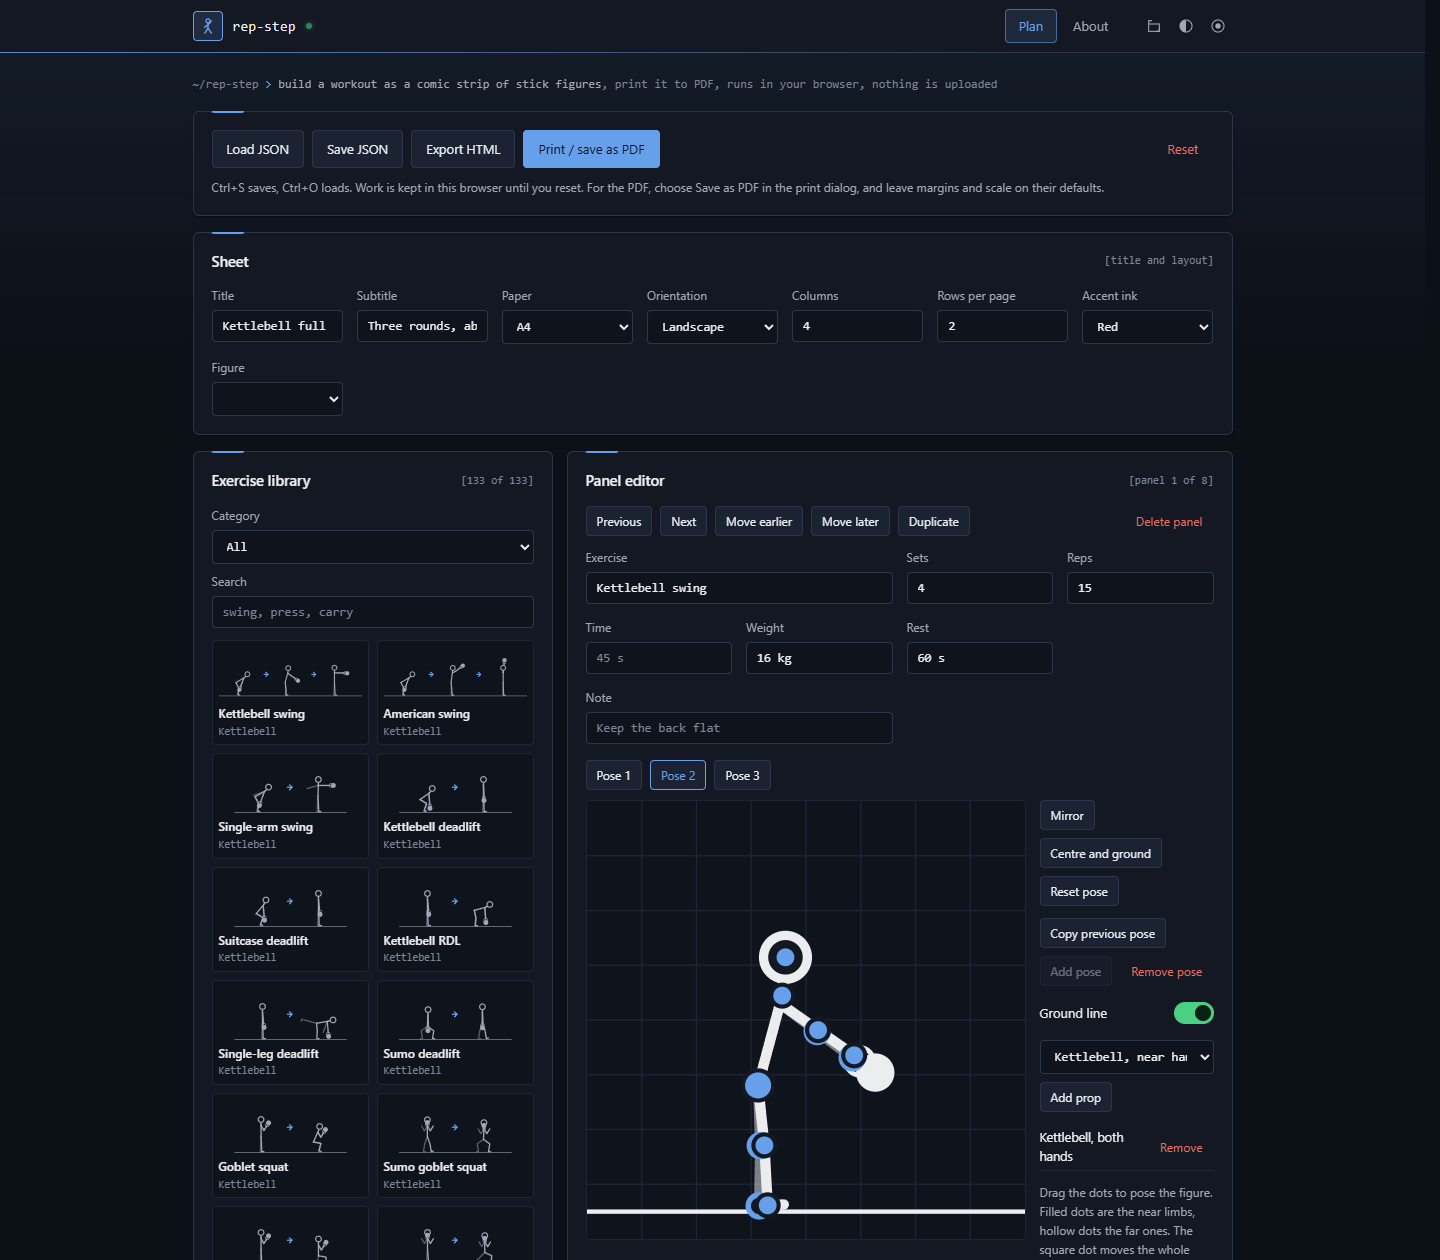
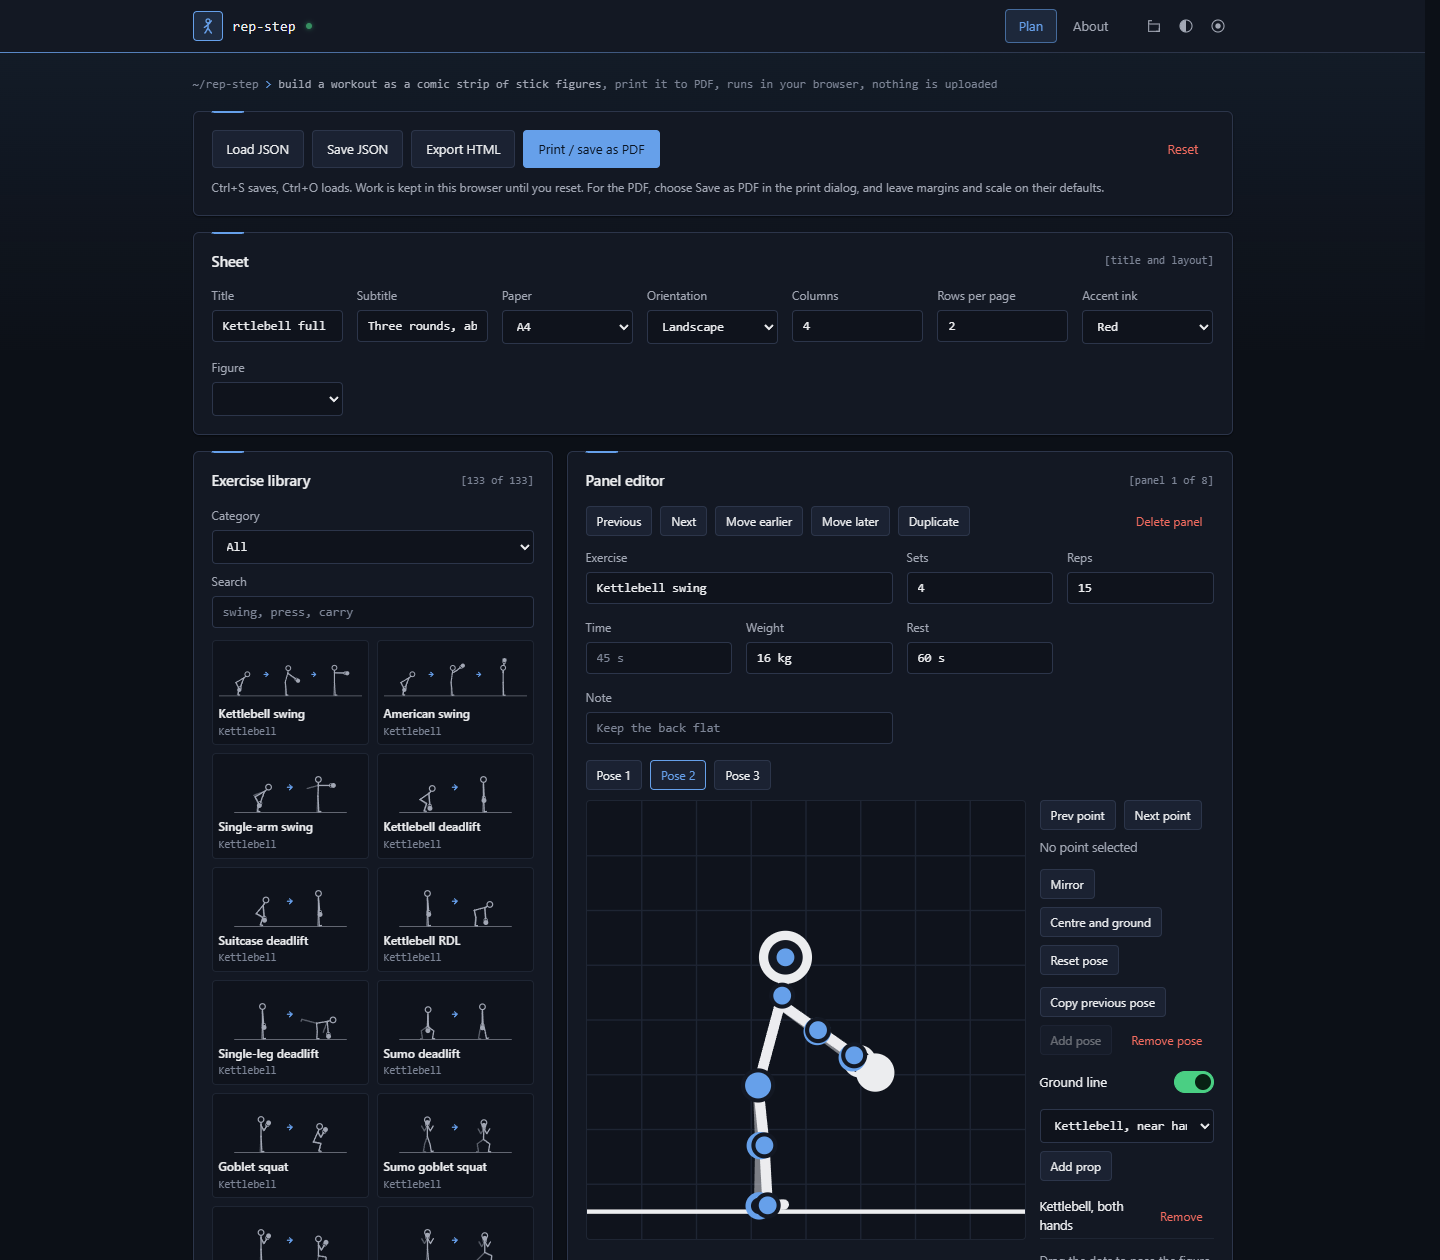
Pose editor: cycle through points and move them with the keyboard
Next point and Prev point (or ] and [) step through the editor dots one at a
time, which gets round overlapping dots. The picked dot turns red with a ring
and is named beside the buttons; grabbing a dot with the pointer picks it too.
The arrow keys move the picked dot (Shift for 4 units, Alt for a quarter) and
Escape lets go. The keys are ignored while typing in a field.

Changed region(s): [[0.7188, 0.619, 0.8438, 1.0]]

diff --git a/index.html b/index.html
@@ -1113,6 +1113,9 @@ label.f.grow { flex: 1 1 200px; }
     -webkit-user-select: none;
 }
 .edtools { display: flex; flex-direction: column; gap: 12px; }
+.ptbar { display: flex; align-items: center; flex-wrap: wrap; gap: 8px; }
+.ptname { flex: 1 1 100%; font-size: 12.5px; color: var(--fg-dim); }
+.ptname.on { color: var(--bad); font-weight: 700; }
 .proprow {
     display: flex;
     align-items: center;
@@ -1148,6 +1151,8 @@ svg .arr { fill: none; stroke: var(--spot); stroke-width: 3.6; stroke-linecap: r
 .edsvg .h-vis.far { fill: var(--card); stroke: var(--accent); stroke-width: 2; }
 .edsvg .h-vis.root { fill: var(--accent); stroke: var(--card); }
 .edsvg .h-vis.prop { fill: var(--warn); stroke: var(--card); }
+.edsvg .h-vis.sel { fill: var(--bad); stroke: var(--card); stroke-width: 2; }
+.edsvg .h-ring { fill: none; stroke: var(--bad); stroke-width: 1.4; pointer-events: none; }
 
 /* The sheet is paper. It is the product, so it keeps one fixed ink-on-white
    palette in every design and mode, and the same in print. */
@@ -1427,6 +1432,11 @@ svg .arr { fill: none; stroke: var(--spot); stroke-width: 3.6; stroke-linecap: r
                     <div class="edwrap">
                         <svg id="edSvg" class="edsvg" viewBox="0 0 160 160" role="img" aria-label="Pose editor. Drag the dots to pose the figure."><g id="edG"></g></svg>
                         <div class="edtools">
+                            <div class="ptbar">
+                                <button class="btn btn-sm" id="ptPrev" type="button" title="Previous point ( [ )">Prev point</button>
+                                <button class="btn btn-sm" id="ptNext" type="button" title="Next point ( ] )">Next point</button>
+                                <span class="ptname" id="ptName" aria-live="polite">No point selected</span>
+                            </div>
                             <div class="row">
                                 <button class="btn btn-sm" id="poseMirror">Mirror</button>
                                 <button class="btn btn-sm" id="poseGround">Centre and ground</button>
@@ -1446,7 +1456,7 @@ svg .arr { fill: none; stroke: var(--spot); stroke-width: 3.6; stroke-linecap: r
                                 <button class="btn btn-sm" id="propAdd">Add prop</button>
                             </div>
                             <div id="propList"></div>
-                            <div class="note">Drag the dots to pose the figure. Filled dots are the near limbs, hollow dots the far ones. The square dot moves the whole figure. Hold Shift to snap to 15 degrees.</div>
+                            <div class="note">Drag the dots to pose the figure. Filled dots are the near limbs, hollow dots the far ones. The square dot moves the whole figure. Hold Shift to snap to 15 degrees. When dots overlap, press ] and [ (or Next point) to step through them: the picked dot turns red and is named above. The arrow keys then nudge it, Shift for bigger steps and Alt for finer ones, and Escape lets go.</div>
                         </div>
                     </div>
                 </div>
@@ -1480,7 +1490,9 @@ svg .arr { fill: none; stroke: var(--spot); stroke-width: 3.6; stroke-linecap: r
             <div class="prose">
                 Bones have fixed lengths, so a figure always looks like the same person. Dragging a joint
                 turns the bone above it around its parent, and everything below keeps its own angle, so
-                pulling an elbow moves the hand with it. Figures are flat, side or front view as you
+                pulling an elbow moves the hand with it. When dots sit on top of each other, Next point
+                (or the ] and [ keys) steps through them one at a time, the picked dot turns red with its
+                name beside the button, and the arrow keys move it. Figures are flat, side or front view as you
                 choose to draw them. Near limbs are drawn solid and far limbs lighter.
             </div>
         </div>
@@ -2865,7 +2877,7 @@ function blankState() {
     };
 }
 let state = blankState();
-const ui = { pi: 0, qi: 0 };
+const ui = { pi: 0, qi: 0, sel: null };   /* sel: the point picked in the pose editor */
 
 /* Everything read from storage or a file goes through here, so a hand-edited or
    hostile JSON file can only ever produce a valid state. */
@@ -3140,14 +3152,29 @@ const curPanel = () => state.panels[ui.pi] || null;
 const curPose = () => { const p = curPanel(); return p ? p.poses[Math.min(ui.qi, p.poses.length - 1)] : null; };
 
 function handle(g, name, pt, kind) {
+    const on = ui.sel === name;
+    if (on) svgEl("circle", { cx: r1(pt[0]), cy: r1(pt[1]), r: 8.5, class: "h-ring" }, g);
     svgEl("circle", { cx: r1(pt[0]), cy: r1(pt[1]), r: 10, class: "h-hit", "data-h": name }, g);
-    svgEl("circle", { cx: r1(pt[0]), cy: r1(pt[1]), r: kind === "root" ? 5.5 : 4, class: "h-vis " + kind }, g);
+    svgEl("circle", { cx: r1(pt[0]), cy: r1(pt[1]), r: kind === "root" ? 5.5 : 4, class: "h-vis " + kind + (on ? " sel" : "") }, g);
+}
+/* The points that can be picked, in the order the cycle button visits them. */
+const POINTS = [["hip", "Hip (moves the whole figure)"], ["neck", "Neck (turns the body)"], ["head", "Head"],
+    ["rE", "Near elbow"], ["rH", "Near hand"], ["rK", "Near knee"], ["rA", "Near ankle"],
+    ["lE", "Far elbow"], ["lH", "Far hand"], ["lK", "Far knee"], ["lA", "Far ankle"]];
+function pointList() {
+    const p = curPose(), out = POINTS.slice();
+    if (p) p.props.forEach((o, i) => { if (o.x != null && o.k !== "mat") out.push(["p" + i, PROP_NAME[o.k] || o.k]); });
+    return out;
+}
+function pointAt(p, name) {
+    if (name[0] === "p") { const o = p.props[Number(name.slice(1))]; return o && o.x != null ? [o.x, o.y] : null; }
+    return skeleton(p)[name] || null;
 }
 function drawEditor() {
     const g = $("#edG");
     g.textContent = "";
     const p = curPose(), panel = curPanel();
-    if (!p) return;
+    if (!p) { ui.sel = null; showPoint(); return; }
     for (let i = 20; i < CELL; i += 20) {
         svgEl("line", { class: "grid", x1: i, y1: 0, x2: i, y2: CELL }, g);
         svgEl("line", { class: "grid", x1: 0, y1: i, x2: CELL, y2: i }, g);
@@ -3155,13 +3182,20 @@ function drawEditor() {
     if (panel.ground) svgEl("line", { class: "gl", x1: 0, y1: GROUND, x2: CELL, y2: GROUND }, g);
     drawPose(g, p);
     const s = skeleton(p);
-    p.props.forEach((o, i) => { if (o.x != null && o.k !== "mat") handle(g, "p" + i, [o.x, o.y], "prop"); });
-    handle(g, "lE", s.lE, "far"); handle(g, "lH", s.lH, "far");
-    handle(g, "lK", s.lK, "far"); handle(g, "lA", s.lA, "far");
-    handle(g, "head", s.head, "near"); handle(g, "neck", s.neck, "near");
-    handle(g, "rE", s.rE, "near"); handle(g, "rH", s.rH, "near");
-    handle(g, "rK", s.rK, "near"); handle(g, "rA", s.rA, "near");
-    handle(g, "hip", s.hip, "root");
+    const hs = [];
+    p.props.forEach((o, i) => { if (o.x != null && o.k !== "mat") hs.push(["p" + i, [o.x, o.y], "prop"]); });
+    hs.push(["lE", s.lE, "far"], ["lH", s.lH, "far"], ["lK", s.lK, "far"], ["lA", s.lA, "far"],
+        ["head", s.head, "near"], ["neck", s.neck, "near"], ["rE", s.rE, "near"], ["rH", s.rH, "near"],
+        ["rK", s.rK, "near"], ["rA", s.rA, "near"], ["hip", s.hip, "root"]);
+    if (ui.sel && !hs.some(h => h[0] === ui.sel)) ui.sel = null;
+    hs.sort((a, b) => (a[0] === ui.sel) - (b[0] === ui.sel));
+    hs.forEach(h => handle(g, h[0], h[1], h[2]));
+    showPoint();
+}
+function showPoint() {
+    const row = pointList().filter(r => r[0] === ui.sel)[0], n = $("#ptName");
+    n.textContent = row ? "Selected: " + row[1] : "No point selected";
+    n.classList.toggle("on", !!row);
 }
 
 function dragTo(h, q, snap) {
@@ -3212,6 +3246,7 @@ function dragTo(h, q, snap) {
         e.preventDefault();
         try { svg.setPointerCapture(e.pointerId); } catch (err) {}
         drag = h;
+        if (ui.sel !== h) { ui.sel = h; drawEditor(); }
     });
     svg.addEventListener("pointermove", e => {
         if (!drag) return;
@@ -3226,6 +3261,34 @@ function dragTo(h, q, snap) {
 })();
 
 function changed() { persist(); renderSheets(); }
+
+/* Stepping through the points with a button or ] and [, and moving the picked one with the arrow keys. */
+(() => {
+    const cycle = dir => {
+        if (!curPose()) return;
+        const list = pointList(), at = list.findIndex(r => r[0] === ui.sel);
+        ui.sel = list[at < 0 ? (dir > 0 ? 0 : list.length - 1) : (at + dir + list.length) % list.length][0];
+        drawEditor();
+    };
+    $("#ptNext").addEventListener("click", () => cycle(1));
+    $("#ptPrev").addEventListener("click", () => cycle(-1));
+    const ARROWS = { ArrowLeft: [-1, 0], ArrowRight: [1, 0], ArrowUp: [0, -1], ArrowDown: [0, 1] };
+    document.addEventListener("keydown", e => {
+        if (e.ctrlKey || e.metaKey || $("#pane-work").hidden || !curPose()) return;
+        const t = e.target;
+        if (t && t.matches && t.matches("input, select, textarea, [contenteditable]")) return;
+        if (e.key === "]" || e.key === "[") { e.preventDefault(); cycle(e.key === "]" ? 1 : -1); return; }
+        if (!ui.sel) return;
+        if (e.key === "Escape") { ui.sel = null; drawEditor(); return; }
+        const a = ARROWS[e.key];
+        if (!a) return;
+        e.preventDefault();
+        const p = curPose(), at = pointAt(p, ui.sel), k = e.altKey ? 0.25 : e.shiftKey ? 4 : 1;
+        if (!at) return;
+        dragTo(ui.sel, [at[0] + a[0] * k, at[1] + a[1] * k], false);
+        persist(); drawEditor(); renderSheets();
+    });
+})();
 function renderEditor() {
     const p = curPanel();
     $("#edEmpty").hidden = !!p;

diff --git a/README.md b/README.md
@@ -37,6 +37,8 @@ Poses are stored as joint angles on a skeleton with fixed bone lengths, so every
 | Hollow dots | Far limbs, drawn lighter on the sheet |
 | Square dot | Moves the whole figure |
 | Shift while dragging | Snaps to 15 degrees |
+| Next point, Prev point (or `]` and `[`) | Steps through the dots one at a time, for when they overlap. The picked dot turns red and is named beside the button, props included |
+| Arrow keys | Move the picked dot by 1 unit. Shift moves 4, Alt moves a quarter. A bone only turns, so a dot on it moves around its parent. Escape lets go. Ignored while you type in a field |
 | Mirror | Flips the pose to face the other way |
 | Centre and ground | Rests the lowest point on the ground line and centres the figure |
 | Copy previous pose | Starts this pose from the one before it |
